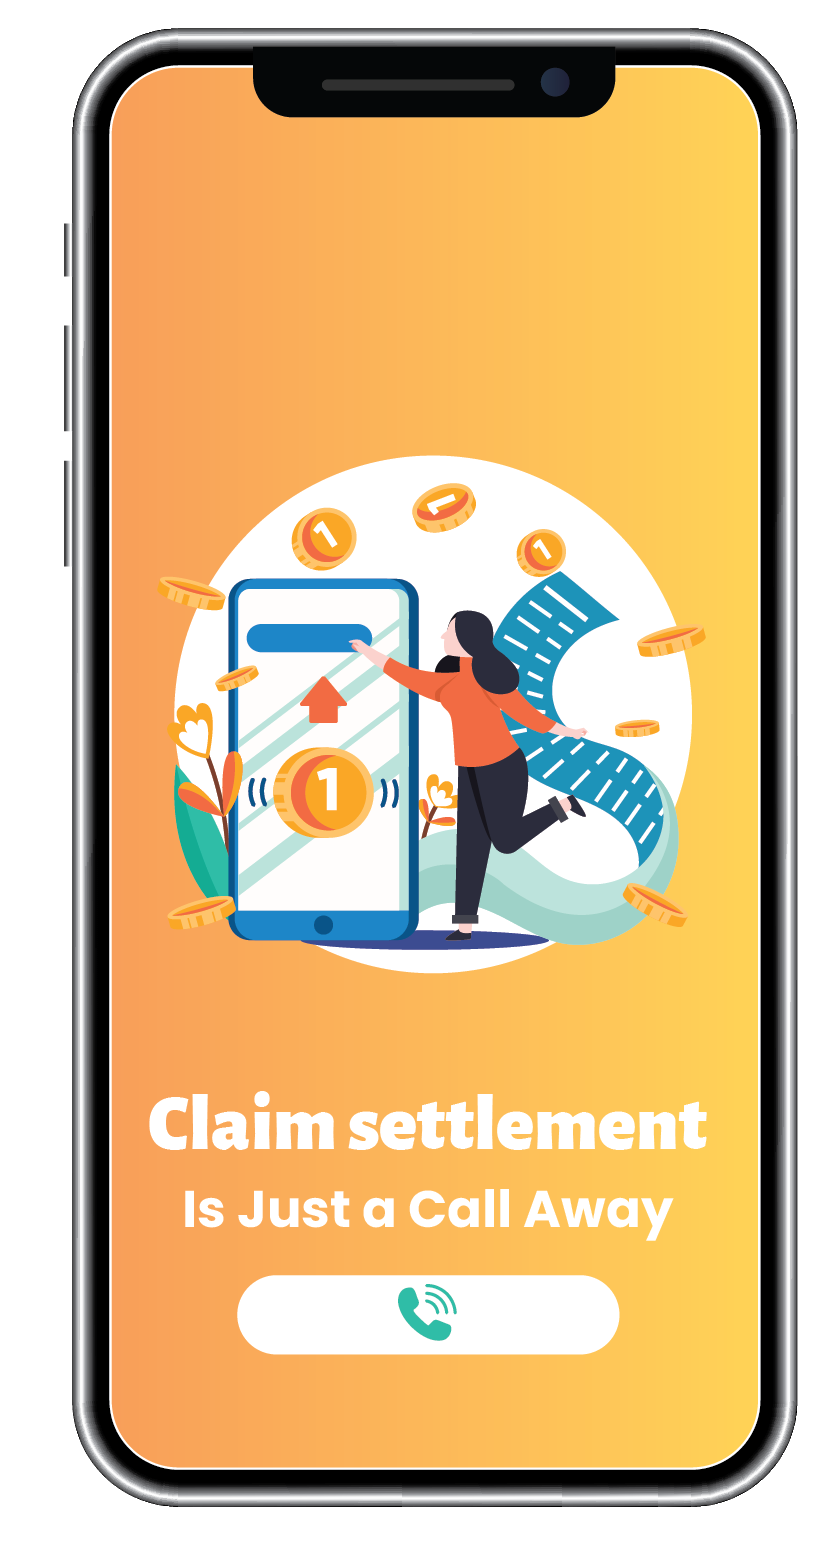
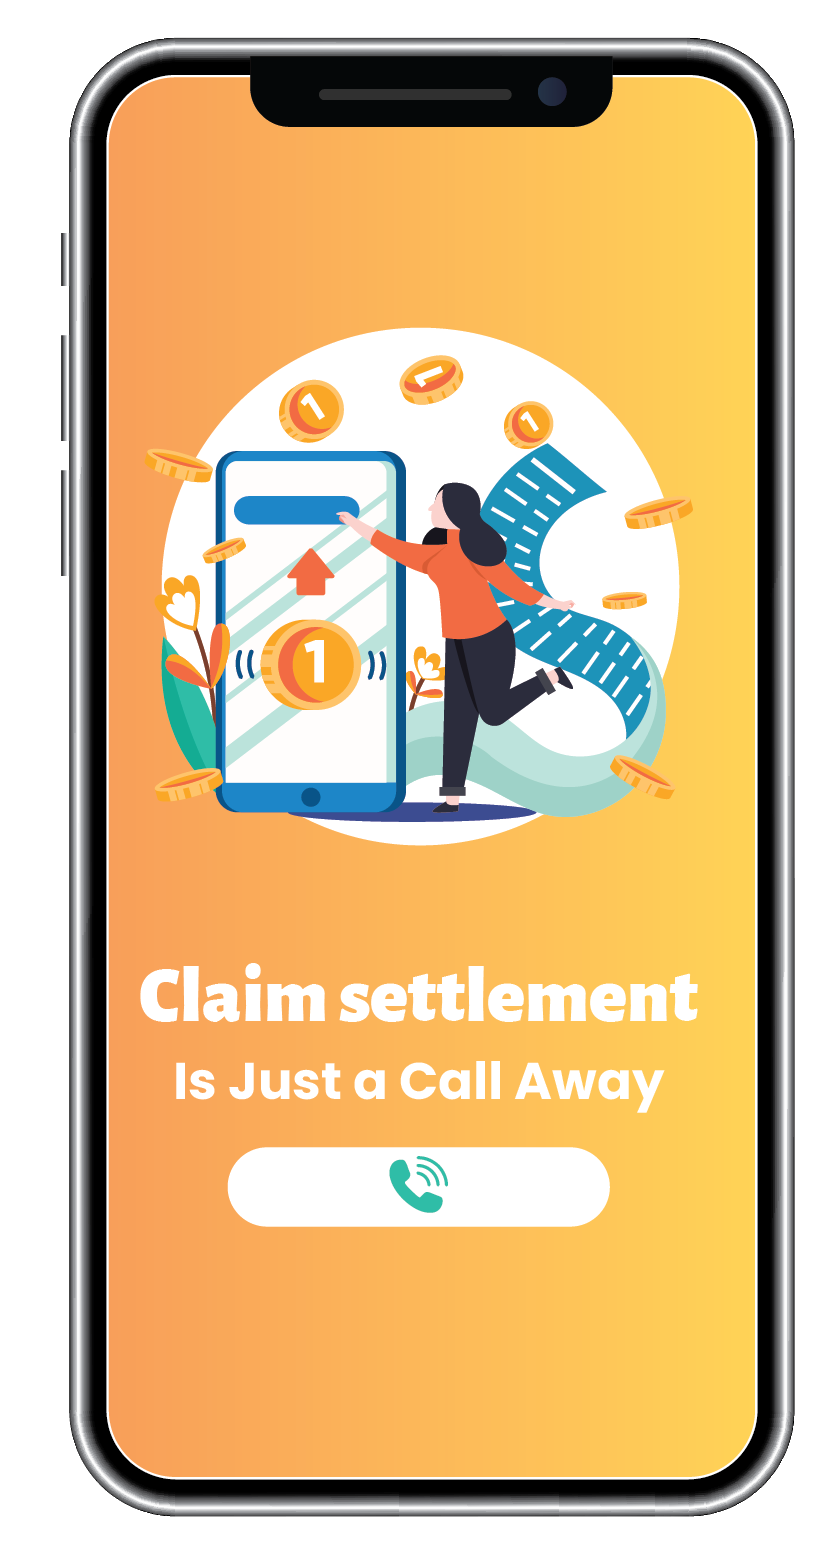
images changes

diff --git a/application/views/front/insurance.php b/application/views/front/insurance.php
@@ -281,7 +281,7 @@ color: #313131;
             </div><br>
 
             <div class="col-lg-6 text-center">
-                <img  src="<?php echo base_url();?>image/img1.png" class="mx-auto d-block pulse" alt="" id="one">
+                <img  src="<?php echo base_url();?>image/home_hading.png" class="mx-auto d-block pulse" alt="home_hading" id="one">
             </div>
         </div>
     </div>
@@ -290,8 +290,8 @@ color: #313131;
     <div class="container-fluid stats_section_fluid">
         <div class="container">
 
-            <div class="row " style="padding-top:15%; padding-bottom:15%">
-                <div class="col-lg-6" style="color: white;">
+            <div class="row " style="padding-top:10%; padding-bottom:10%">
+                <div class="col-lg-6" style="color: white;     place-self: center;">
                     <h1><b>Who Are We ?</b></h1><br>
                     <p>We are a team of dedicated professionals who understand the importance of protecting your
                         valuable mobile devices. Our mission is to provide you with the best mobile protection plan
@@ -299,12 +299,7 @@ color: #313131;
                         accidental damages, water damaged and theft.</p>
                 </div>
                 <div class="col-lg-6 text-center">
-
-                    <div class="embed-responsive embed-responsive-16by8">
-                        <iframe class="embed-responsive-item" src="https://player.vimeo.com/video/137857207"
-                            title="YouTube video" allowfullscreen></iframe>
-                    </div>
-
+                 <img src="<?php echo base_url();?>image/video.png" alt="video" class="img-fluid pulse">
                 </div>
 
             </div>
@@ -365,13 +360,15 @@ color: #313131;
                         </div>
                     </div>
 
-                    <div class="our_work_section py-5">
+
+
+                    <div class="our_work_section">
                         <div class="container" style="height:100vh">
                             <div class="p fixede">
                                 <div class="row finxed_row">
                                     <div class="appdevcol col-md-4">
-                                        <img class="" style="filter: drop-shadow(7px 0px 10px #ccc);"
-                                            src="<?php echo base_url();?>asstes/homepage/images/h1bq_layout.png"
+                                        <img class="img-fluid" style="filter: drop-shadow(7px 0px 10px #ccc);"
+                                            src="<?php echo base_url();?>image/mobile project_easy.png"  width="260" height="562"
                                             alt="h1bq_layout.png">
                                     </div>
                                     <div class="appdevcol col-md-6">

diff --git a/application/views/front/Calculator.php b/application/views/front/Calculator.php
@@ -205,18 +205,15 @@
     <div class="container-fluid stats_section_fluid">
         <div class="container">
 
-            <div class="row " style="padding-top:15%; padding-bottom:15%">
-                <div class="col-md-6" style="color: white;">
+            <div class="row " style="padding-top:10%; padding-bottom:10%">
+                <div class="col-md-6" style="color: white;  place-self: center;">
                     <h1><b>Who Are We ?</b></h1><br>
                     <p>Pack your luggage and pick your destination, we will provide you <br>
                         the flight ticket, hotel booking and best guides</p>
                 </div>
                 <div class="col-md-6 text-center">
 
-                    <div class="embed-responsive embed-responsive-16by8">
-                        <iframe class="embed-responsive-item" src="https://player.vimeo.com/video/137857207"
-                            title="YouTube video" allowfullscreen></iframe>
-                    </div>
+                <img src="<?php echo base_url();?>image/video.png" alt="video" class="img-fluid pulse">
 
                 </div>
 
@@ -276,13 +273,15 @@
                         </div>
                     </div>
 
-                    <div class="our_work_section py-5">
+
+
+                    <div class="our_work_section">
                         <div class="container" style="height:100vh">
                             <div class="p fixede">
                                 <div class="row finxed_row">
                                     <div class="appdevcol col-md-4">
-                                        <img class="" style="filter: drop-shadow(7px 0px 10px #ccc);"
-                                            src="<?php echo base_url();?>asstes/homepage/images/h1bq_layout.png"
+                                        <img class="img-fluid" style="filter: drop-shadow(7px 0px 10px #ccc);"
+                                            src="<?php echo base_url();?>image/mobile project_easy.png"  width="260" height="562"
                                             alt="h1bq_layout.png">
                                     </div>
                                     <div class="appdevcol col-md-6">

diff --git a/application/views/front/mobile.php b/application/views/front/mobile.php
@@ -192,6 +192,14 @@
     width:82px;
     height:82px;
 }
+
+.pulse {
+  animation: pulse 2s infinite ease-in-out alternate;
+}
+@keyframes pulse {
+  from { transform: scale(1.0); }
+  to { transform: scale(1.1); }
+}
     </style>
 
 </head>
@@ -204,29 +212,35 @@
 
     <div class="container ">
         <div class="row ">
-            <div class="col-lg-6">
+            <div class="col-lg-6" style="align-self: center;">
+                <div class="row">
+                
                 <p>Form cantent</p>
+                <div class="col-3">
                 <a class=" header_option products active" aria-current="page"
                     href="<?php echo base_url();?>Fornt/buy_Premium">
-                    <div class="input-group-append w-25">
+                    <div class="input-group-append w-100">
                         <span style=" background-color: #FFB600; place-content: center;"
                             class="input-group-text text-white" id="basic-addon2">Buy Product
                         </span>
                     </div>
                 </a>
-
+                </div>
+                <div class="col-6">
                 <a class=" header_option products active mt-5" aria-current="page"
                     href="<?php echo base_url();?>Fornt/Calculator">
-                    <div class="input-group-append w-25">
+                    <div class="input-group-append w-50">
                         <span style=" background-color: #FFB600; place-content: center;"
                             class="input-group-text text-white" id="basic-addon2">Calculator
                         </span>
                     </div>
                 </a>
+                </div>
+                </div>
             </div><br>
 
             <div class="col-lg-6 text-center">
-                <img src="<?php echo base_url();?>image/img1.png" class="mx-auto d-block" alt="" id="one">
+                <img src="<?php echo base_url();?>image/home_hading.png" class="mx-auto d-block pulse" alt="home_hading" id="one">
             </div>
         </div>
     </div>
